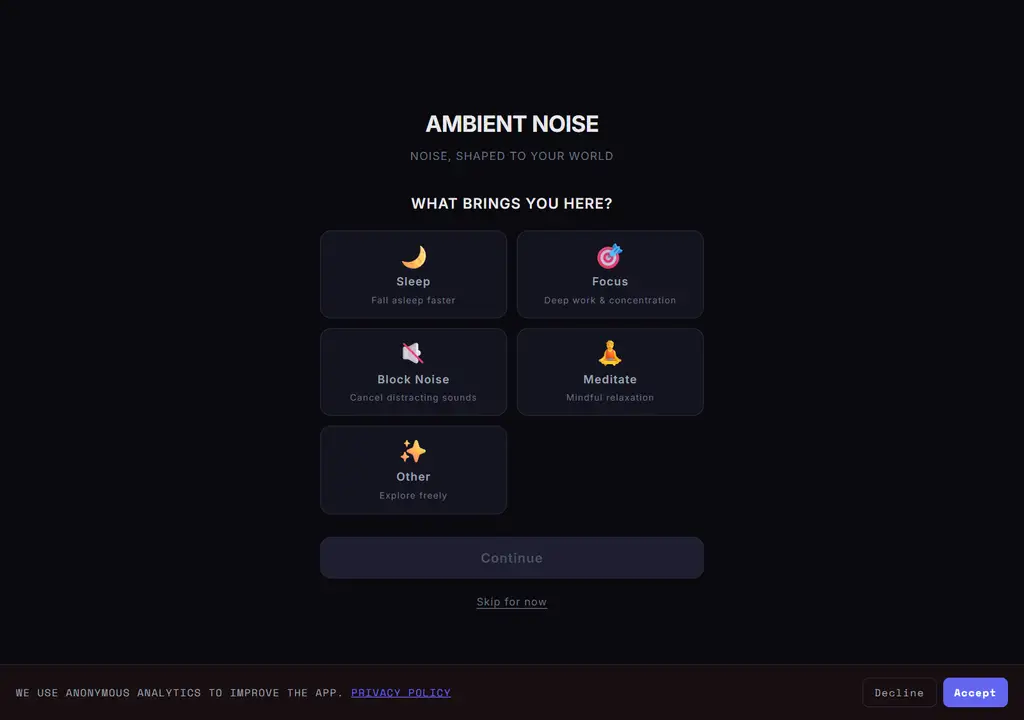
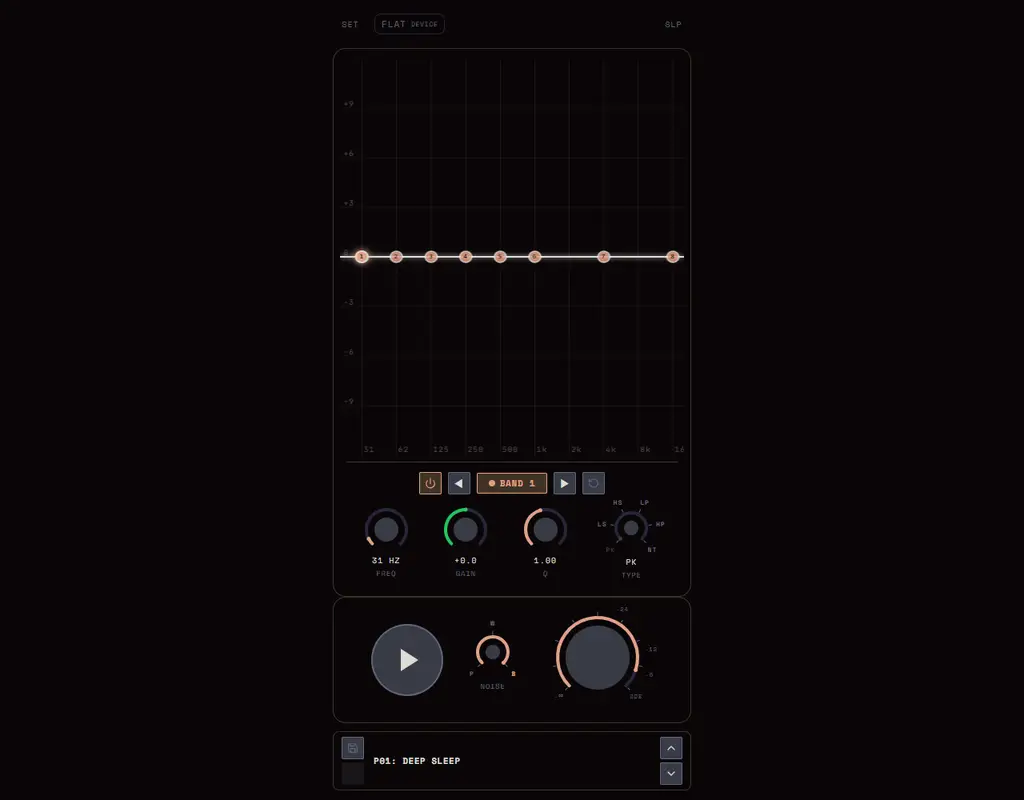
fix: report shows actual ambz.vercel.app white-noise player, not onboarding
The original-v1 screenshots captured the consent/onboarding mood-card screen.
Re-capture the real player by clicking through to it, and correct captions/
description to the actual tape-deck instrument surface (SET/FLAT/DEVICE/SLP
hardware panel, band-EQ detail panel, P/W/B noise, meter, presets).

diff --git a/docs/postmortem-v1-to-v2/index.html b/docs/postmortem-v1-to-v2/index.html
@@ -237,9 +237,9 @@ footer .src{font-family:var(--mono);font-size:12px}
 
   <figure class="shot-grid reveal">
     <figure class="shot"><div class="imgframe"><img src="screens/v1-original-desktop.webp" alt="The original ambient-noise v1, desktop"></div><div class="cap"><b>the original, desktop</b>live at ambz.vercel.app &mdash; the pre-redesign player</div></figure>
-    <figure class="shot"><div class="imgframe"><img src="screens/v1-original-mobile.webp" alt="The original ambient-noise v1, mobile"></div><div class="cap"><b>the original, mobile</b>mood cards, rounded Inter UI, band-EQ detail panel</div></figure>
+    <figure class="shot"><div class="imgframe"><img src="screens/v1-original-mobile.webp" alt="The original ambient-noise v1, mobile"></div><div class="cap"><b>the original, mobile</b>the tape-deck player &mdash; band-EQ detail panel, P/W/B noise, meter</div></figure>
   </figure>
-  <p>This is the player that shipped before the redesign &mdash; captured live from <strong>ambz.vercel.app</strong>. It is a full-featured tape-deck product (the richer, mobile-rooted v1) and, visually, a competent but generic &ldquo;minimal dark wellness&rdquo; surface: <strong>Inter</strong> (not a mono instrument face), <strong>rounded 14px buttons</strong>, mood cards (Sleep / Focus / Block Noise / Meditate), and an EQ edited band-by-band through a focused detail panel (BAND 1 &middot; 31&nbsp;Hz &middot; PK/LS/HS/LP/HP/NT types). The redesign would not merely polish this &mdash; it would replace its whole design language with the far more coherent UNIT-02 instrument, then keep the stronger interaction ideas (presets, filter cuts, an EQ you read at a glance).</p>
+  <p>This is the player that shipped before the redesign &mdash; captured live from <strong>ambz.vercel.app</strong>, reached past the consent + &ldquo;what brings you here&rdquo; onboarding to the actual instrument. It is a full-featured tape-deck product (the richer, mobile-rooted v1): a <strong>hardware-panel</strong> surface (SET / FLAT / DEVICE / SLP) in <strong>Inter</strong>, an EQ edited band-by-band through a focused detail panel (BAND 1 &middot; 31&nbsp;Hz &middot; gain &amp; Q &middot; PK/LS/HS/LP/HP/NT types), P/W/B noise selectors, a segmented meter, and preset chips (P01: Deep Sleep). It is dense and capable but visually busy &mdash; a control panel that reads as instrument internals rather than a settled identity. The redesign would not merely polish it &mdash; it would replace its design language with the far more coherent UNIT-02, while keeping the stronger interaction ideas (presets, filter cuts, an EQ you read at a glance).</p>
   <p>Look at the commit subjects between the first player and the redesign and the pattern is unmistakable &mdash; a <em>tape deck</em> whose look was nudged, not decided:</p>
   <div class="callout reveal">
     <span class="tag">the drift, verbatim</span>
